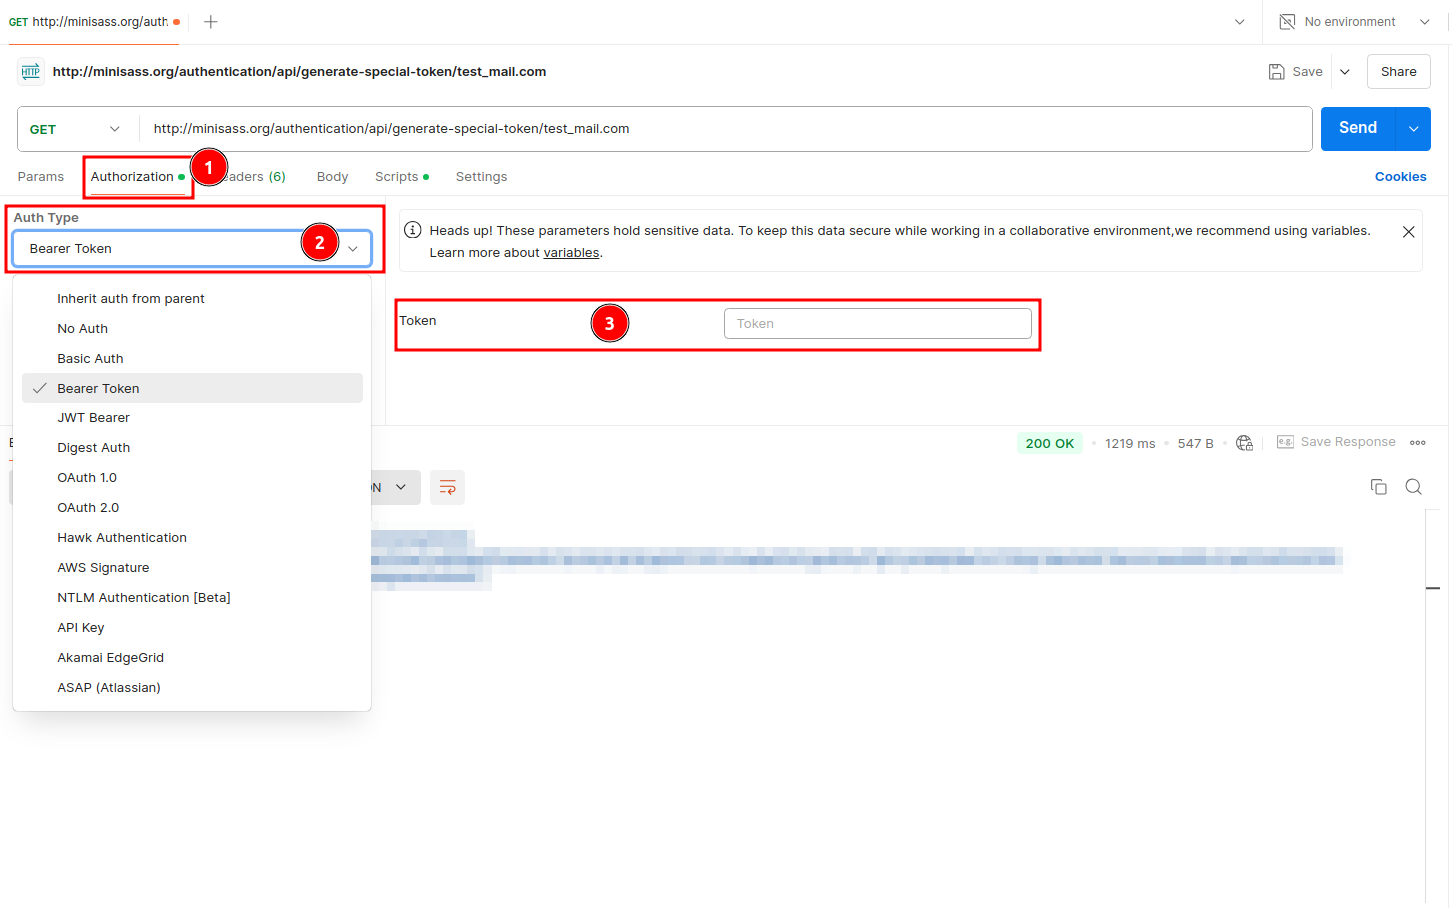
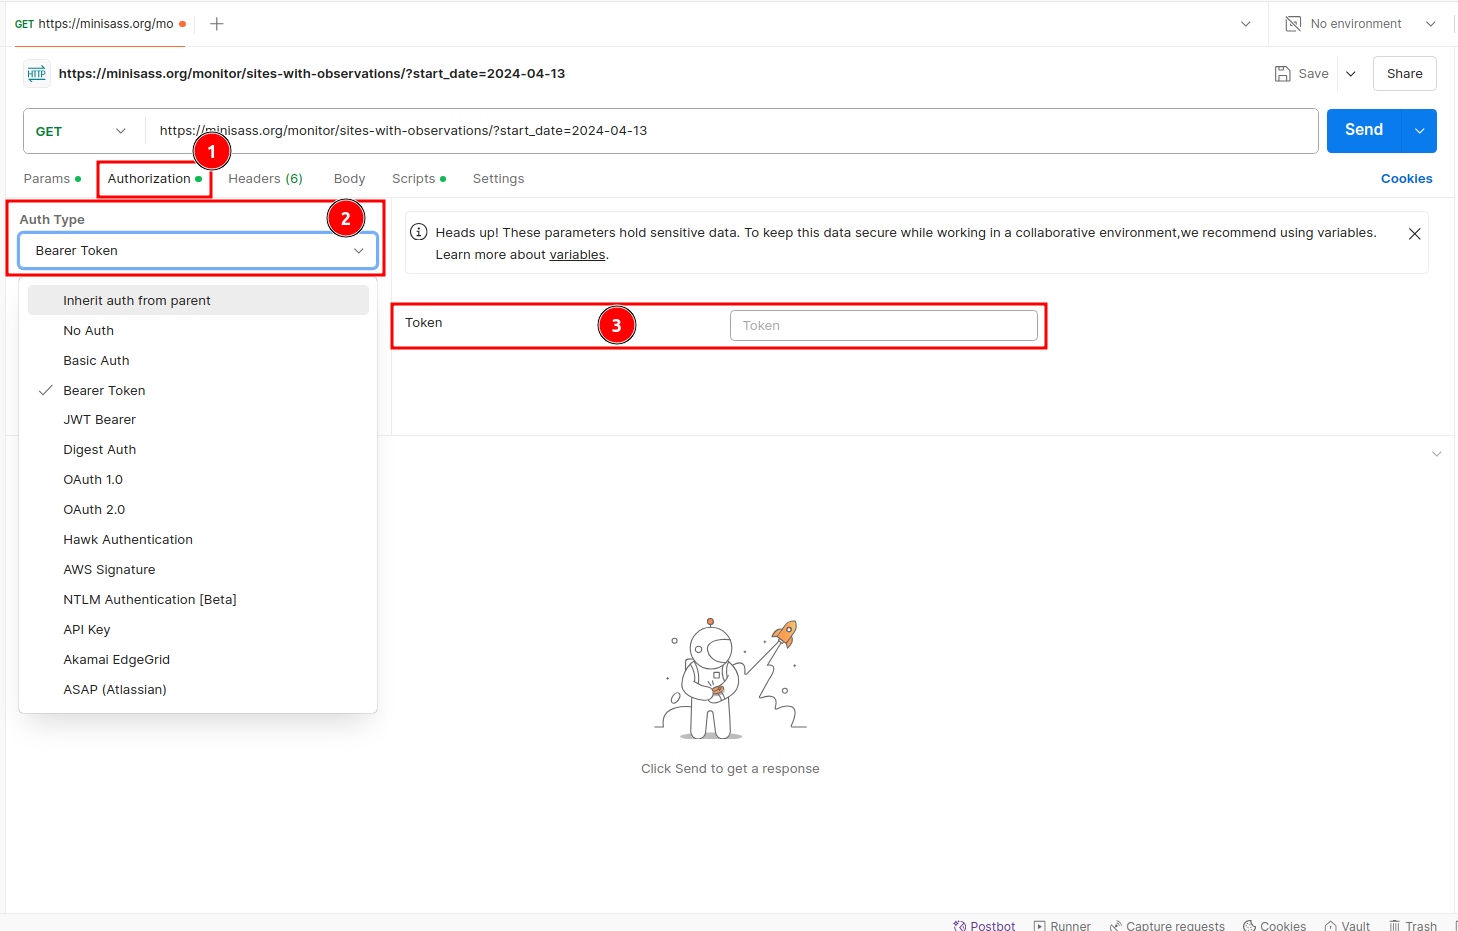
Added request token doc

diff --git a/docs/src/developer/3rd-party-api-access.md b/docs/src/developer/3rd-party-api-access.md
@@ -2,15 +2,45 @@
 
 This guide provides a detailed procedure for accessing the miniSASS 3rd party API, allowing you to retrieve site and observation data. The first section outlines the API and using a service like Postman and the second section outlines the use of Swagger as a standardised way to access the API.
 
-## Api for token generation
+## Access Token
 
-### API Endpoint
+In order to access the miniSASS third-party API, users are required to request an access token. This token is essential for authentication and will enable you to interact with the API securely.
 
-The API can be accessed at the following URL:
+### How to request for the access token:
 
-`http://minisass.org/authentication/api/generate-special-token/test_mail.com`
+> Note: Only registered users will be able to get the access token. So make sure you are registered on the miniSASS.
 
-> Note: Replace `test_email.com` with your valid mail id.
+- Go to the miniSASS official website. Click [here](https://minisass.org/) to visit the website.
+
+- Click on the 1⃣ `CONTACT US` button in the navigation bar.
+
+    [![Minisass website](./img/3rd-party-api-access-42.png)](./img/3rd-party-api-access-42.png)
+
+- Fill out the `Contact Form` provided below to submit your request.
+
+    [![Contact Form](./img/3rd-party-api-access-43.png)](./img/3rd-party-api-access-43.png)
+
+    **1. Name**: Enter your name.
+
+    **2. Email**: Enter your registered email address, where you will receive the access token.
+
+    **3. Phone Number**: Enter your phone number.
+
+    **4. Message**: Enter your message in the following format
+    
+    ```
+    Dear miniSASS Admin,
+
+    My name is [Your Name], and I am a [Your Profession/Role]. I would like to request an API token for accessing data from the miniSASS platform.
+
+    Purpose of data access: Briefly explain why you need the data, e.g., for research, analysis, project work, etc.
+
+    Intended use of data: Describe how the data will be used, e.g., environmental studies, GIS mapping, etc.
+    ```
+
+    **5. Submit**: Click on the `Submit` button to send your request.
+
+    After submitting the form, you will receive an API access token at your registered email address. You can use this token to access the miniSASS 3rd party API.
 
 ## Api for accessing site observation data
 
@@ -24,7 +54,7 @@ The API can be accessed at the following URL:
 
 - **start_date:** Specify the date from which you want to retrieve data. Format: YYYY-MM-DD.
 
-## Step-by-Step Procedure to Generate Token and Make Request
+## Step-by-Step Procedure to Make Request Using the Access Token
 
 **Set Up Your Environment:** To interact with the API, you can use tools like Postman, cURL, or any programming language that supports HTTP requests.
 
@@ -38,37 +68,21 @@ Open Postman, click on 1⃣ `New`, and select 2⃣ `HTTP` to begin.
 
 [![New Http Request](./img/3rd-party-api-access-1.png)](./img/3rd-party-api-access-1.png)
 
-After choosing the Http Request, you will receive the following window. You can construct the API URL and send the request.
+#### How to use access token 
 
-#### Generate Token:
-
-- **URL:** `http://minisass.org/authentication/api/generate-special-token/test_mail.com`
-
-    >Note: Replace `test_mail.com` with your valid mail id.
-
-* Select the `GET` from the 1⃣ `method` dropdown and enter the URL into the 2⃣ `input` field, ensuring it is in the correct format. After verifying the URL, click the 3⃣ `Send` button to send the request.
-
-[![Http Request](./img/3rd-party-api-access-2.png)](./img/3rd-party-api-access-2.png)
-
-* After the request is sent, you will receive a response with the generated token in default json format you can use this token to further process.
-
-[![Token Response](./img/3rd-party-api-access-37.png)](./img/3rd-party-api-access-37.png)
-
-#### How to use this token 
-
-Click on the 1⃣ Authorisation, and select 2⃣ `Bearer Token` from the `Auth Type` dropdown menu. Enter the token in the 3⃣ `Token` input field.
+Click on the 1⃣ `Authorisation`, and select 2⃣ `Bearer Token` from the `Auth Type` dropdown menu. Enter the token you get on the email in the 3⃣ `Token` input field.
 
 [![Add Token](./img/3rd-party-api-access-38.png)](./img/3rd-party-api-access-38.png)
 
 **401 Unauthorised**
 
-If the user requests site observation data without providing the `Token`, the server will return a 1⃣ 401 Unauthorised response along with the following 2⃣ detail: "Authentication credentials were not provided".
+If the user requests site observation data without providing the `Token`, the server will return a 1⃣ 401 Unauthorised response along with the following 2⃣ `detail: Authentication credentials were not provided` message.
 
-[![Unauthorise Error](./img/3rd-party-api-access-39.png)](./img/3rd-party-api-access-39.png)
+[![Unauthorised Error](./img/3rd-party-api-access-39.png)](./img/3rd-party-api-access-39.png)
 
 #### Make Request for the data
 
-    > Note: Ensure that the date is in the correct format (YYYY-MM-DD) to avoid errors.
+> Note: Ensure that the date is in the correct format (YYYY-MM-DD) to avoid errors.
 
 * Use the base URL and append your desired start date in the following format:
 
@@ -134,9 +148,9 @@ Select the `GET` from the 1⃣ `method` dropdown and enter the constructed UR
 
     [![Response Format](./img/3rd-party-api-access-5.png)](./img/3rd-party-api-access-5.png)
 
-    * **Json Format**
+    * **JSON Format**
         
-        [![Json Format](./img/3rd-party-api-access-6.png)](./img/3rd-party-api-access-6.png)
+        [![JSON Format](./img/3rd-party-api-access-6.png)](./img/3rd-party-api-access-6.png)
 
     *  **Xml Format**
 
@@ -150,17 +164,9 @@ Select the `GET` from the 1⃣ `method` dropdown and enter the constructed UR
 
 ### Make Request Using Browser
 
-#### Generate Token:
-
-- Enter the [Generate Token API](#api-for-token-generation) into the browser address bar and press `Enter` to send the request and generate the token.
-
-    [![Browser](./img/3rd-party-api-access-40.png)](./img/3rd-party-api-access-40.png)
-
-- After successfully completing the request, the user will receive the token in the response. The user can then copy the token and use it for further requests.
-
-    [![Browser Token](./img/3rd-party-api-access-41.png)](./img/3rd-party-api-access-41.png)
-
 The user can directly send the request using a browser by pasting the URL into the browser's address bar along with the date from which they want to retrieve data.
+
+**Here is the process:**
 
 - Open your browser and paste the constructed URL into the address bar.
 
@@ -216,7 +222,7 @@ Click on the 1⃣ `image` to open the image in your browser, where you can ea
 
 [![Site/Observation Image](./img/3rd-party-api-access-21.png)](./img/3rd-party-api-access-21.png)
 
-#### DownLoad Image:
+#### Download Image:
 
 * Right click on the image  and select **Save Image As**.
 
@@ -237,9 +243,9 @@ User can also choose response format between JSON and api.
 
 - The response will be displayed in the selected format.
 
-    * **Json Format**
+    * **JSON Format**
 
-        [![Json Response](./img/3rd-party-api-access-11.png)](./img/3rd-party-api-access-11.png)
+        [![JSON Response](./img/3rd-party-api-access-11.png)](./img/3rd-party-api-access-11.png)
 
         Click on 1⃣ `Pretty print` to display the response in a readable format.
 
